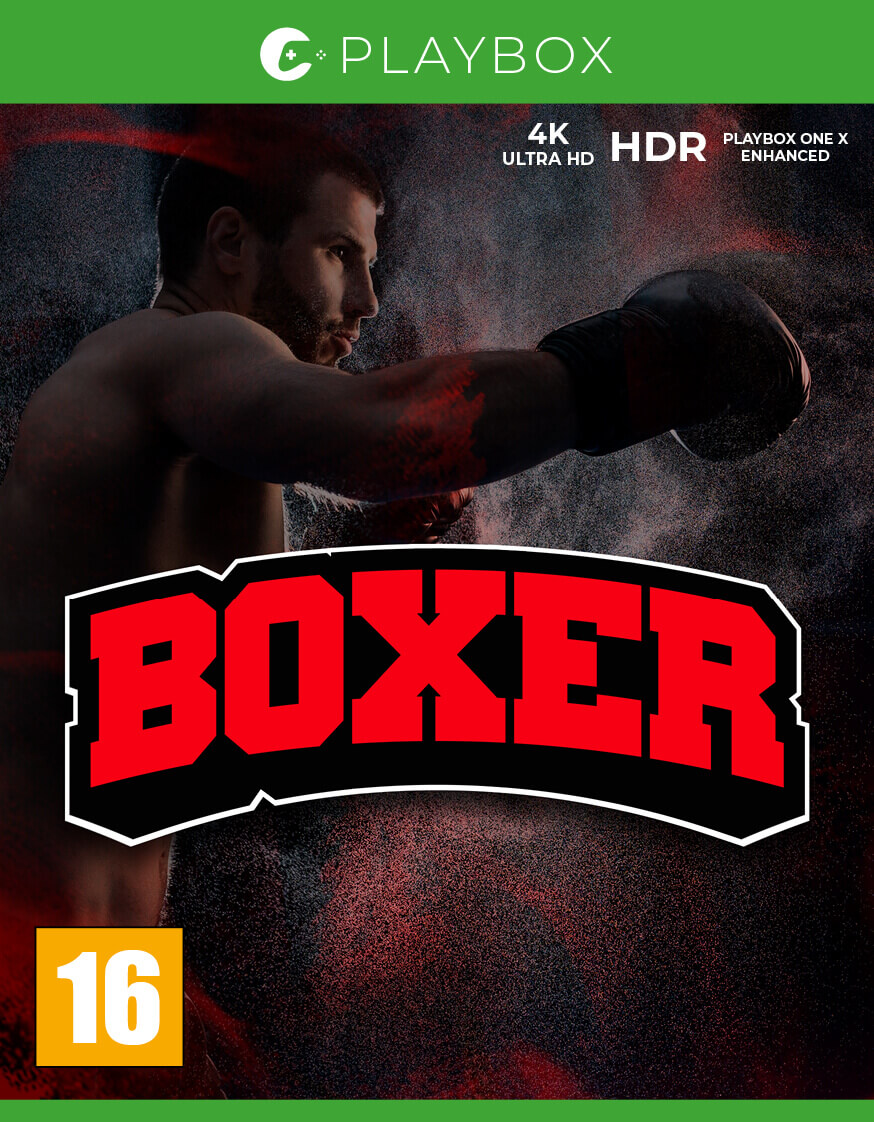
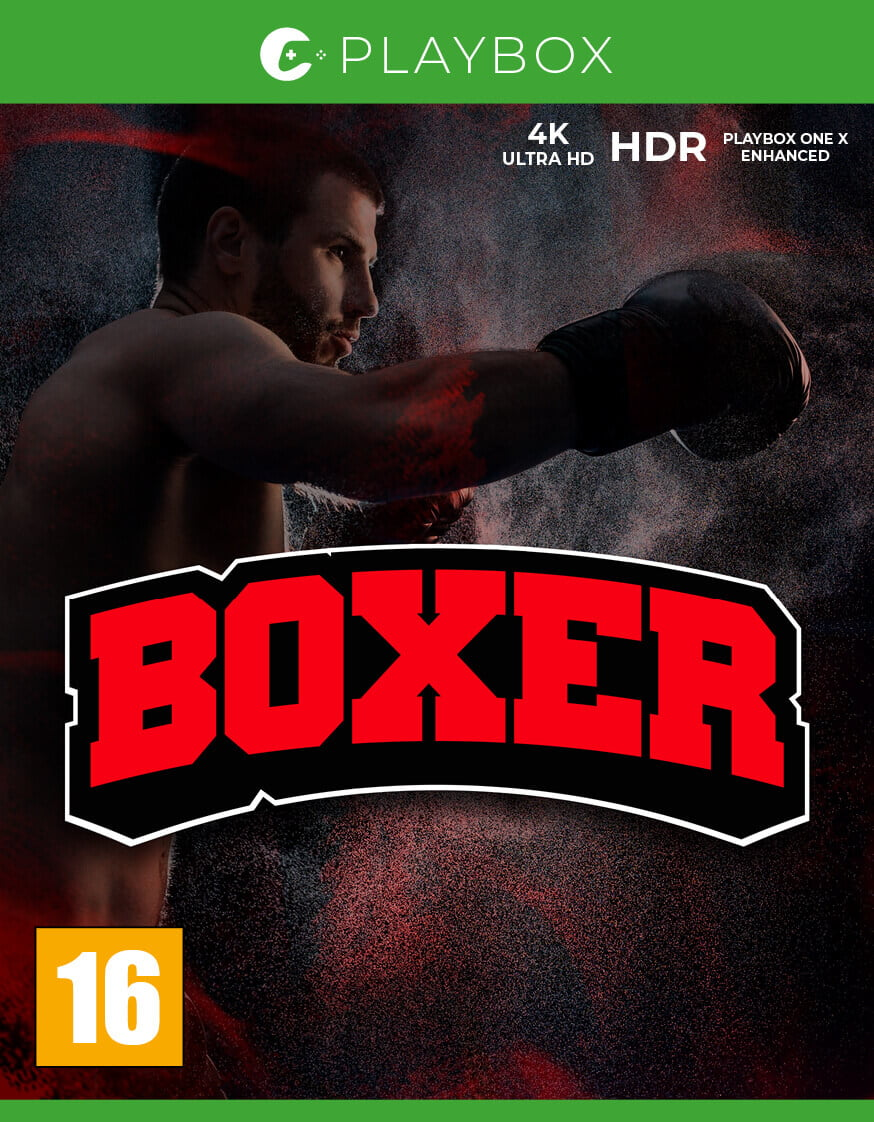
changed flex block to flex for preorder (chrome). Changed some images' file sizes.

diff --git a/css/stylesheet.css b/css/stylesheet.css
@@ -228,7 +228,7 @@ main section {
 }
 
 .preorder-container {
-  display: flex block;
+  display: flex;
   justify-content: left;
   margin-left: 1.5em;
 }
